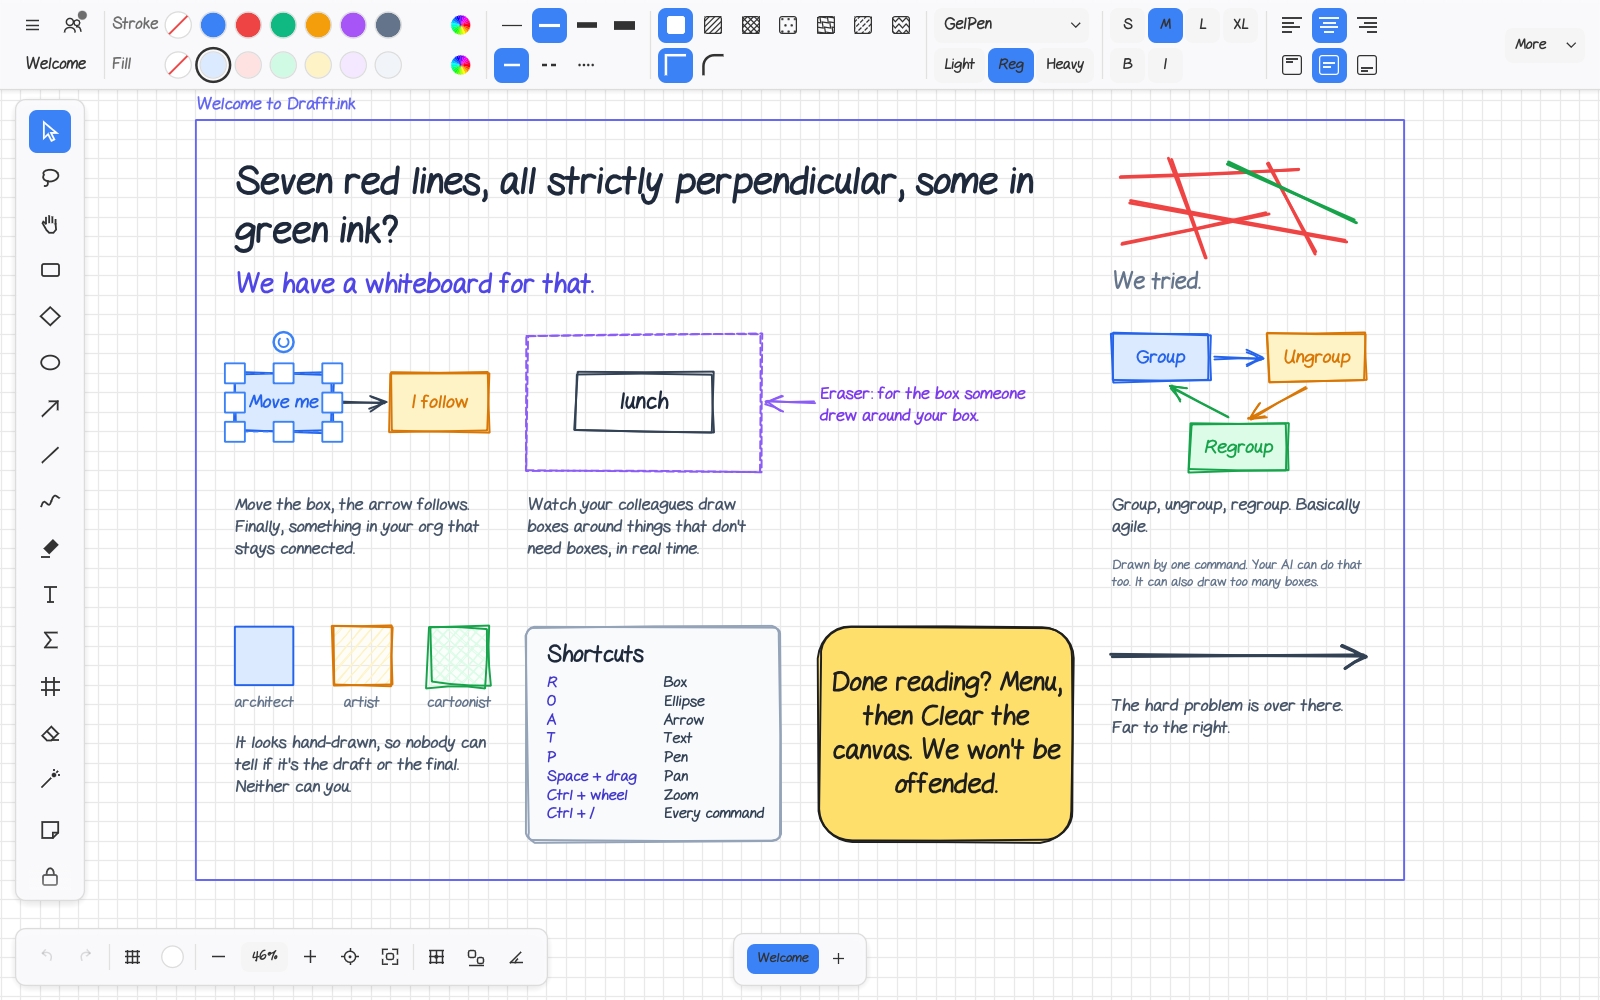
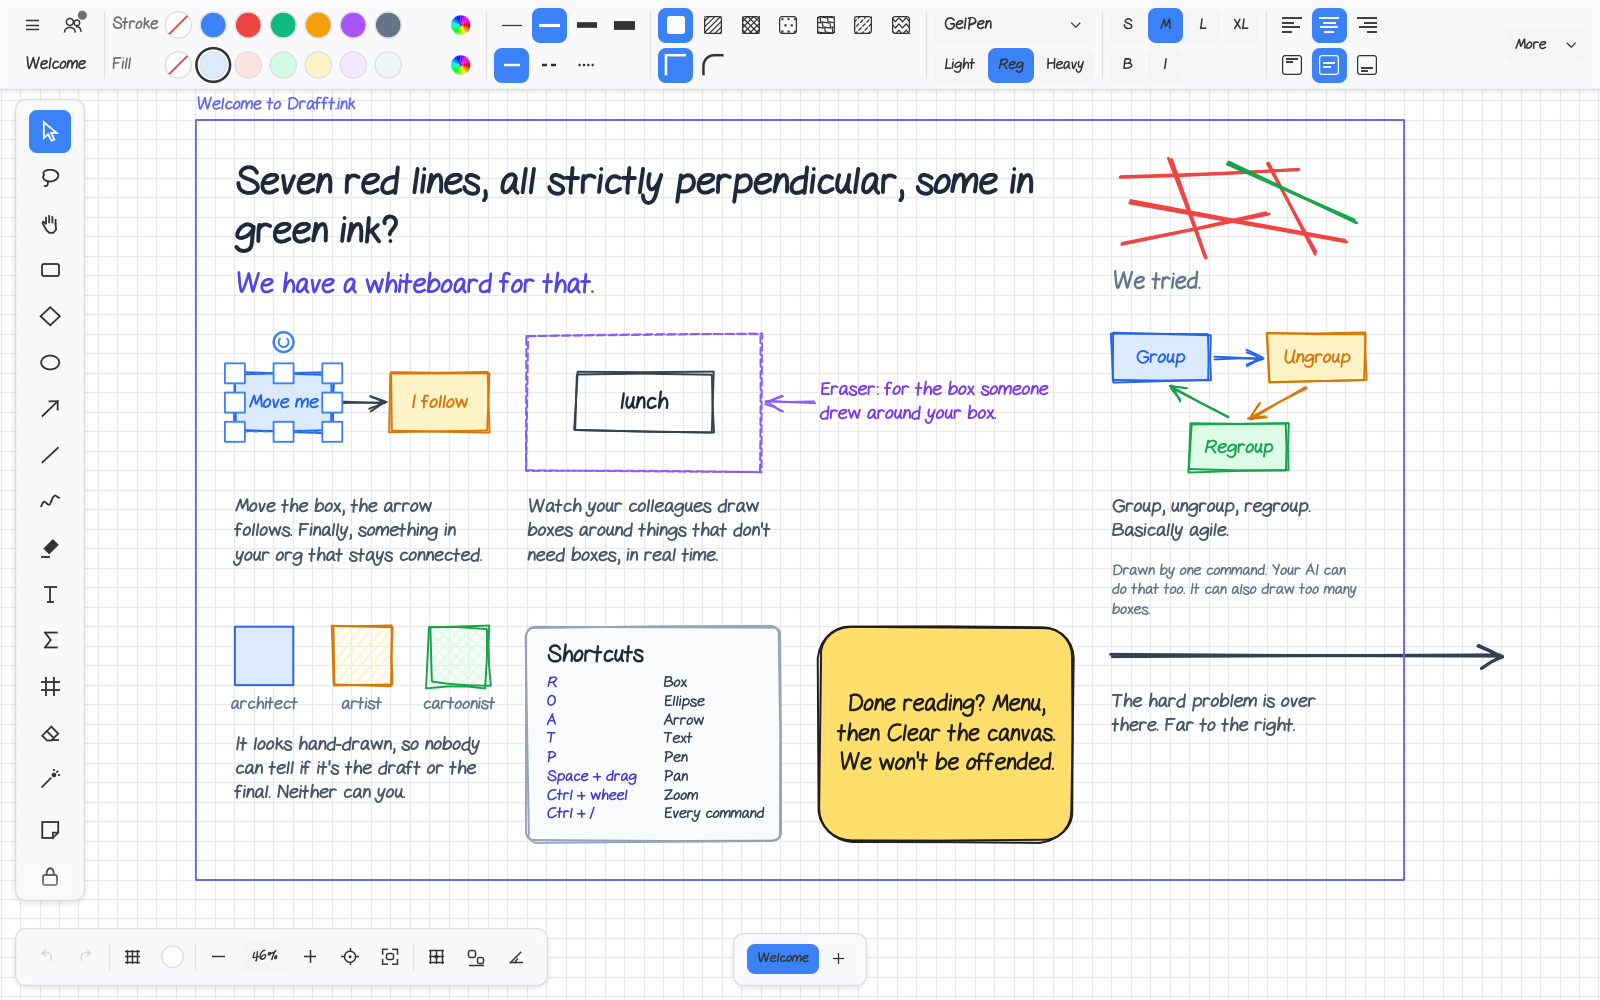
intro: smaller sticky text, arrow runs past the home frame, bigger captions; media exports by ids

diff --git a/crates/app/examples/media/render.rs b/crates/app/examples/media/render.rs
@@ -70,8 +70,8 @@ pub fn render(shot: &Shot) -> Result<Vec<u8>, RenderError> {
     let data = tempfile::tempdir()?;
     match shot.output {
         Output::Window { size, scale, theme, touch } => window(shot, data.path(), size, scale, theme, touch),
-        Output::Export { width, padding, theme, ref frame } => {
-            export(shot, data.path(), &ExportSpec { width, padding, theme, frame: frame.as_deref() })
+        Output::Export { width, padding, theme, ref ids } => {
+            export(shot, data.path(), &ExportSpec { width, padding, theme, ids: ids.as_deref() })
         }
     }
 }
@@ -104,27 +104,32 @@ struct ExportSpec<'a> {
     width: u32,
     padding: f64,
     theme: Theme,
-    /// Export only this frame.
-    frame: Option<&'a str>,
+    /// Export only these elements.
+    ids: Option<&'a [String]>,
 }
 
-/// The width in world units of what the export draws: the frame, or all content.
-fn export_content_width(app: &mut App, shot: &str, frame: Option<&str>) -> Result<f64, RenderError> {
-    let width = match frame {
-        Some(f) => execute(app, shot, "doc.inspect", json!({ "detail": "full", "ids": [f] }))?
-            .pointer("/items/0/bounds/w")
-            .and_then(Value::as_f64),
-        None => execute(app, shot, "doc.inspect", json!({}))?.pointer("/bounds/w").and_then(Value::as_f64),
+/// The width in world units of what the export draws: the given elements together, or all content.
+fn export_content_width(app: &mut App, shot: &str, ids: Option<&[String]>) -> Result<f64, RenderError> {
+    let Some(ids) = ids else {
+        let out = execute(app, shot, "doc.inspect", json!({}))?;
+        return Ok(out.pointer("/bounds/w").and_then(Value::as_f64).unwrap_or_default());
     };
-    Ok(width.unwrap_or_default())
+    let out = execute(app, shot, "doc.inspect", json!({ "detail": "full", "ids": ids }))?;
+    let edges = out.pointer("/items").and_then(Value::as_array).into_iter().flatten().filter_map(|item| {
+        let x = item.pointer("/bounds/x").and_then(Value::as_f64)?;
+        let w = item.pointer("/bounds/w").and_then(Value::as_f64)?;
+        Some((x, x + w))
+    });
+    let (left, right) = edges.fold((f64::INFINITY, f64::NEG_INFINITY), |(l, r), (x0, x1)| (l.min(x0), r.max(x1)));
+    Ok((right - left).max(0.0))
 }
 
 fn export(shot: &Shot, data: &Path, spec: &ExportSpec<'_>) -> Result<Vec<u8>, RenderError> {
     let mut app = app(data);
     run_steps(&mut app, shot)?;
-    let content = export_content_width(&mut app, &shot.name, spec.frame)?;
-    let (scope, frame) = match spec.frame {
-        Some(f) => ("frame", json!(f)),
+    let content = export_content_width(&mut app, &shot.name, spec.ids)?;
+    let (scope, ids) = match spec.ids {
+        Some(ids) => ("ids", json!(ids)),
         None => ("all", Value::Null),
     };
     let out = execute(
@@ -134,7 +139,7 @@ fn export(shot: &Shot, data: &Path, spec: &ExportSpec<'_>) -> Result<Vec<u8>, Re
         json!({
             "format": "png",
             "scope": scope,
-            "frame": frame,
+            "ids": ids,
             "scale": export_scale(spec.width, content, spec.padding),
             "padding": spec.padding,
             "background": true,

diff --git a/crates/app/examples/media/spec.rs b/crates/app/examples/media/spec.rs
@@ -63,9 +63,9 @@ pub enum Output {
         #[serde(default = "default_padding")]
         padding: f64,
         theme: Theme,
-        /// Export only this frame (an id or `@name`) instead of all content, and size the PNG by its width.
+        /// Export only these elements (ids or `@name`) instead of all content, and size the PNG by their width.
         #[serde(default)]
-        frame: Option<String>,
+        ids: Option<Vec<String>>,
     },
 }
 

diff --git a/docs/media.md b/docs/media.md
@@ -52,7 +52,7 @@ It runs the example `media` of `drafftink-app` (`crates/app/examples/media`), wh
 `docs/media/shots.json` lists the pictures. Each shot has a `name` (the file is `docs/img/<name>.png`), optional `steps` (commands run after the intro is shown, `{"id": "...", "args": {...}}`), and a `kind`:
 
 - `window`: the whole app. `size` in logical pixels, `scale` (physical pixels per logical pixel; the PNG is `size * scale`), `theme` (`light` or `dark`), optional `touch: true` for the phone layout. Use `selection.select` to choose what the ribbon shows and `view.zoom_to_fit` or `view.set` for the camera (the intro already frames `@home`).
-- `export`: the document alone through the PNG export (`doc.export`), `width` in pixels, `padding`, `theme`, and optionally `frame` (an id or `@name`) to export only that frame.
+- `export`: the document alone through the PNG export (`doc.export`), `width` in pixels, `padding`, `theme`, and optionally `ids` (ids or `@name`s) to export only those elements, with the frames' children (the welcome picture uses `@home` and the arrow that leaves it).
 
 | File | What |
 |---|---|
